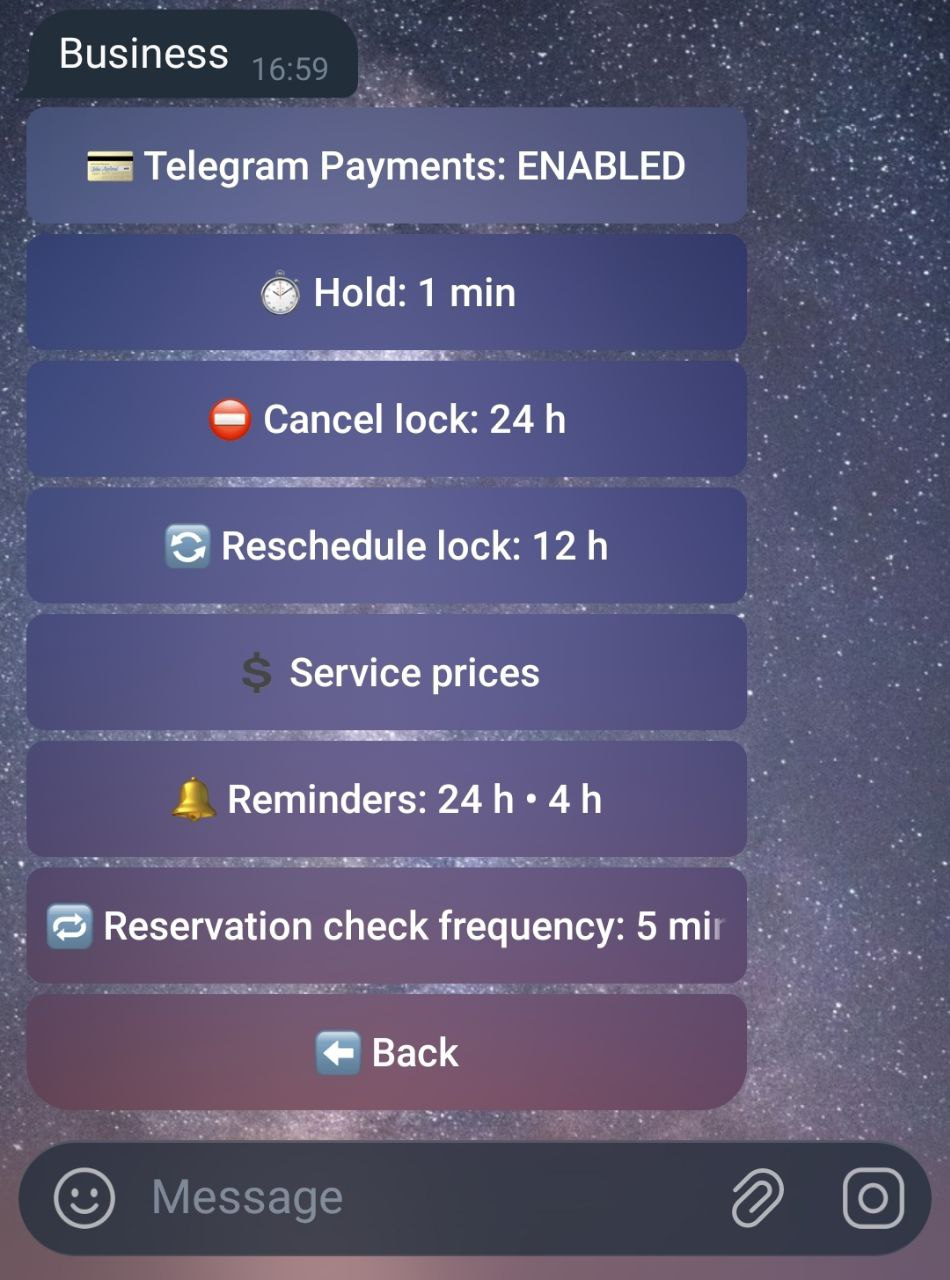
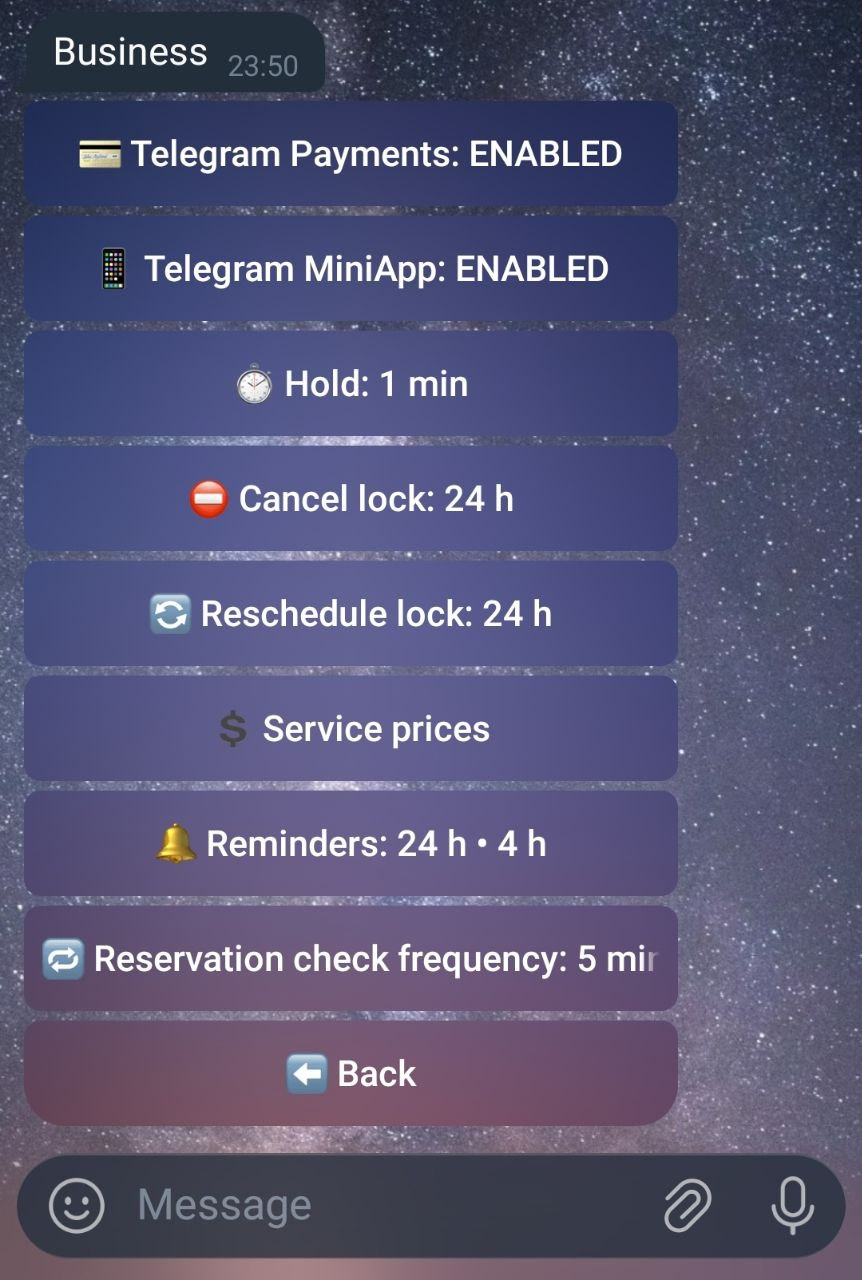
update readme and screenshots

diff --git a/README.md b/README.md
@@ -1,135 +1,170 @@
-# Telegram Salon Booking Bot
+![Self-hosted](https://img.shields.io/badge/self--hosted-yes-brightgreen)
 
-A ready-to-use, self-hosted Telegram booking system for beauty salons and small businesses.  
-Clients book appointments, masters manage schedules, and owners see analytics — all inside Telegram.  
-One-time payment. No SaaS. No subscriptions.
+# 💇♂ Telegram Salon Booking Bot
+
+A ready-to-use, **self-hosted Telegram booking system** for beauty salons and small businesses.  
+Clients book appointments, masters manage schedules, and owners manage operations — **all inside Telegram**.
+
+**One-time payment · No SaaS · No subscriptions**
+
+---
+
+## 🚀 Try the demo or get the full version
+
+- 🤖 **Demo on Telegram** — https://t.me/PaywallClubBot  
+- 💳 **Buy on Gumroad** — https://pentogram.gumroad.com/l/xlbbb  
+- 📦 **Buy on Payhip** — https://payhip.com/b/8LY2T  
+- ☕ **Buy on Ko-fi** — https://ko-fi.com/s/937c0881d1
+
+---
+
+## 📬 Contact
+
+Telegram: **@tartz_brewer**
 
 ---
 
 ## ⚠ Important
+
 This repository does **NOT** contain source code.  
-It is a public product overview and documentation page.
+It is a **public product showcase and documentation** page.
 
 ---
 
-## What is this?
+## 🧩 What is this?
 
-Telegram Salon Booking Bot is a **self-hosted appointment booking system** that works полностью inside Telegram.
+**Telegram Salon Booking Bot** is a complete **self-hosted appointment booking system** that runs fully inside Telegram.
 
 It replaces:
-- manual booking in chats
-- spreadsheets
-- missed messages
-- double bookings
+- manual booking in chats  
+- spreadsheets  
+- missed messages  
+- double bookings  
 
-The bot automates the entire booking flow while staying **simple and human-friendly**.
+The result: **automated scheduling with a clean, human-friendly experience**.
 
 ---
 
-## Who is it for?
+## 🎯 Who is it for?
 
-This bot is designed for:
+Designed for:
 - Beauty salons  
 - Barbershops  
 - Local service businesses  
-- Solo masters and small teams  
+- Solo specialists & small teams  
 
 Perfect if you:
-- already use Telegram with clients
-- want less manual work
-- don’t want subscriptions or SaaS platforms
+- already communicate with clients via Telegram  
+- want fewer mistakes and less manual work  
+- don’t want SaaS, subscriptions, or vendor lock-in  
 
 ---
 
-## How it works
+## 🧭 How it works
 
-**For clients**
-- Choose service
-- Choose master
-- Choose date & time
-- Confirm booking
+### For Clients
+- Choose service  
+- Choose master  
+- Choose date & time  
+- Confirm booking  
 
-**For masters**
-- View schedule
-- See upcoming appointments
-- Manage availability
+### For Masters
+- View schedule  
+- Manage availability  
+- See upcoming appointments  
 
-**For owner**
-- Full overview of bookings
-- Basic analytics
-- Control services and masters
+### For Owners
+- Full booking overview  
+- Analytics & performance stats  
+- Services & staff management  
 
-Everything happens inside Telegram.
-
----
-
-## Features
-
-- Client self-booking
-- Master schedules
-- Admin panel
-- Analytics overview
-- Multi-master support
-- Telegram-native UX
-- Docker-based deployment
-- Self-hosted (you own your data)
+Everything happens **inside Telegram**.
 
 ---
 
-## Demo
+## 🖼 Screenshots
 
-A demo bot is available to explore the booking flow.
+<details>
+  <summary><b><u>Client booking flow</u></b></summary>
 
-👉 Demo link: **(add your demo bot or demo page here)**
+  ![Main menu](screenshots/main_menu.jpg)  
+  ![Service selection](screenshots/service_selection.jpg)  
+  ![Master card](screenshots/master_card.jpg)  
+  ![Date selection](screenshots/date_selection.jpg)  
+  ![Time selection](screenshots/time_selection.jpg)  
+  ![Payment method](screenshots/payment_method.jpg)  
+  ![Online payment](screenshots/online_payment.jpg)  
+  ![Upcoming bookings](screenshots/upcoming_bookings.jpg)  
 
-Note:  
-Demo may have limited functionality and is for preview purposes only.
+</details>
 
----
+<details>
+  <summary><b><u>Telegram Mini App (Client)</u></b></summary>
 
-## Purchase & License
+  ![Mini App Home](screenshots/webapp_home.jpg)
+  ![Mini App My upcoming isits](screenshots/webapp_upcoming_visits.jpg)
+  ![Mini App My history isits](screenshots/webapp_history_visits.jpg)
+  ![Mini App Choose a master](screenshots/webapp_choose_a_master.jpg)
+  ![Mini App Choose a day](screenshots/webapp_choose_a_day.jpg)
+  ![Mini App Choose a time](screenshots/webapp_choose_a_time.jpg)
+  ![Mini App Check details](screenshots/webapp_check_details.jpg)
+  ![Mini App Booked](screenshots/webapp_booked.jpg)
+  ![Mini App Book cart](screenshots/webapp_book_cart.jpg)
+</details>
 
-This is a **paid product**.
+<details>
+  <summary><b><u>Master & Admin panels</u></b></summary>
 
-- One-time payment
-- No subscriptions
-- No SaaS
-- Self-hosted
-- Lifetime access to the purchased version
+  ![Master schedule](screenshots/master_schedule.jpg)  
+  ![Booking details](screenshots/master_booking_detail.jpg)  
+  ![Admin analytics](screenshots/admin_stats.jpg)  
+  ![Admin panel](screenshots/admin_panel.jpg)  
+  ![Admin settings](screenshots/admin_settings.jpg)  
 
-👉 Purchase here: **(Gumroad / Ko-fi / Payhip link)**
-
----
-
-## What is NOT included
-
-Please note:
-- ❌ No custom development
-- ❌ No installation service
-- ❌ No SaaS or hosted version
-
-This product is delivered as-is.
-
----
-
-## Support
-
-I provide **friendly support for my own products**:
-- help with basic setup questions
-- guidance for using the bot
-
-Support does not include custom features or modifications.
+</details>
 
 ---
 
-## Philosophy
+## ✨ Key Features
 
-I build tools for **real businesses**.
+- Client self-booking  
+- Multi-master support  
+- Admin dashboard  
+- Booking analytics  
+- Telegram-native UX  
+- Docker-based deployment  
+- Fully self-hosted (you own your data)
+
+---
+
+## 🚫 What is NOT included
+
+- ❌ No custom development  
+- ❌ No installation service  
+- ❌ No SaaS or hosted version  
+
+The product is delivered **as-is**.
+
+---
+
+## 🧑💻 Support
+
+I provide **friendly support** for this product:
+- help with setup  
+- guidance on usage  
+
+Custom feature development is not included.
+
+---
+
+## 🧠 Philosophy
+
+Built for **real small businesses**.
 
 No overengineering.  
-No unnecessary complexity.  
-Just practical automation that saves time and makes life easier.
+No bloated dashboards.  
+Just practical automation that saves time and prevents mistakes.
 
 ---
 
-If your business works in Telegram — this bot was built for you.
+If your business runs on Telegram — **this bot was built for you**.
